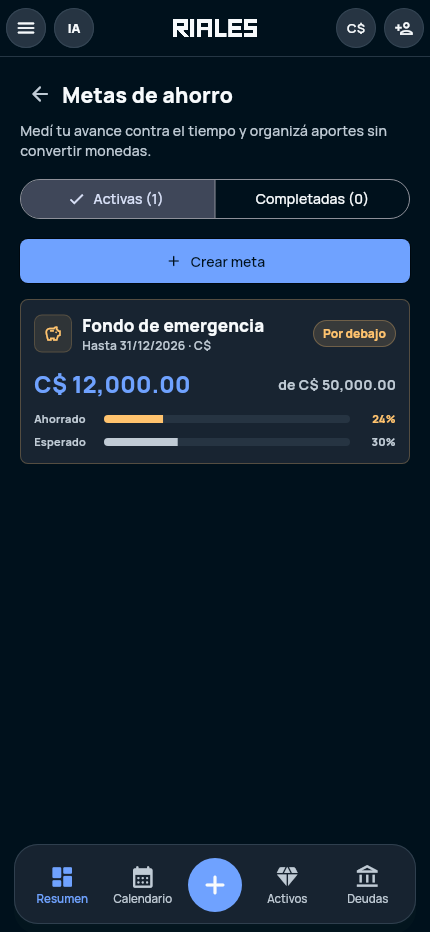
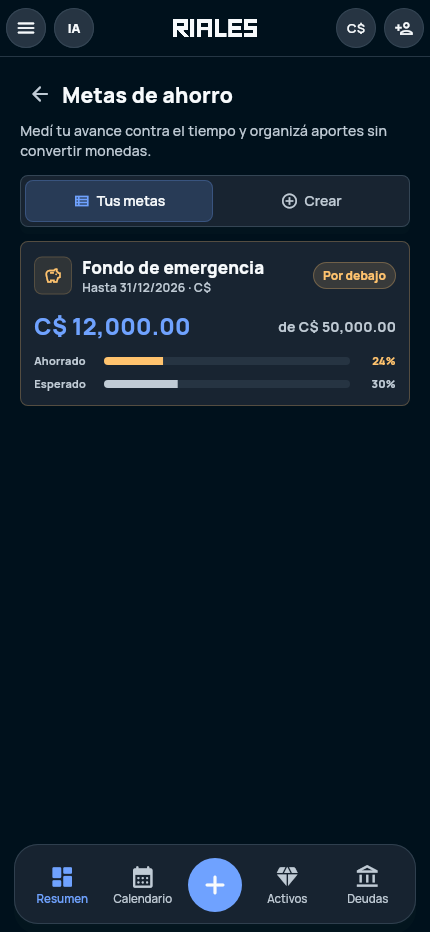
Deploy from 120c99c92a777c5bda232ce0f758e03437fb0d45

Changed region(s): [[0.0302, 0.1867, 0.9674, 0.4979]]

diff --git a/index.html b/index.html
@@ -9,7 +9,7 @@
       content="RIALES es una app de finanzas personales para Nicaragua: registrá ingresos y gastos, proyectá tu efectivo, organizá metas de ahorro, deudas y activos."
     />
     <link rel="canonical" href="https://riales.app/" />
-    <link rel="stylesheet" href="/assets/site.css?v=20260714b" />
+    <link rel="stylesheet" href="/assets/site.css?v=20260715a" />
     <script src="/assets/beta-config.js?v=20260627b" defer></script>
     <script src="/assets/beta.js?v=20260627b" defer></script>
     <script src="/assets/pricing.js?v=20260704a" defer></script>
@@ -71,11 +71,11 @@
             <small>Saldo disponible</small>
           </div>
           <div class="device-mockup hero-device secondary-device" aria-hidden="true">
-            <img class="real-screen" src="/assets/screen-registro.png?v=20260714b" alt="" width="430" height="932" />
+            <img class="real-screen" src="/assets/screen-registro.png?v=20260718a" alt="" width="430" height="932" />
           </div>
 
           <div class="device-mockup hero-device main-device">
-            <img class="real-screen" src="/assets/screen-resumen.png?v=20260714b" alt="Pantalla real del resumen de RIALES" width="430" height="932" />
+            <img class="real-screen" src="/assets/screen-resumen.png?v=20260718a" alt="Pantalla real del resumen de RIALES" width="430" height="932" />
           </div>
         </div>
 
@@ -110,7 +110,7 @@
               </p>
             </div>
             <div class="device-mockup">
-              <img class="real-screen" src="/assets/screen-resumen.png?v=20260714b" alt="Pantalla real del resumen de RIALES" width="430" height="932" />
+              <img class="real-screen" src="/assets/screen-resumen.png?v=20260718a" alt="Pantalla real del resumen de RIALES" width="430" height="932" />
             </div>
           </article>
 
@@ -122,7 +122,7 @@
               </p>
             </div>
             <div class="device-mockup">
-              <img class="real-screen" src="/assets/screen-proyeccion.png?v=20260714b" alt="Pantalla real de proyección de efectivo en RIALES" width="430" height="932" />
+              <img class="real-screen" src="/assets/screen-proyeccion.png?v=20260718a" alt="Pantalla real de proyección de efectivo en RIALES" width="430" height="932" />
             </div>
           </article>
 
@@ -134,7 +134,7 @@
               </p>
             </div>
             <div class="device-mockup">
-              <img class="real-screen" src="/assets/screen-metas-ahorro.png?v=20260714b" alt="Pantalla real de metas de ahorro en RIALES" width="430" height="932" />
+              <img class="real-screen" src="/assets/screen-metas-ahorro.png?v=20260718a" alt="Pantalla real de metas de ahorro en RIALES" width="430" height="932" />
             </div>
           </article>
 
@@ -146,7 +146,7 @@
               </p>
             </div>
             <div class="device-mockup">
-              <img class="real-screen" src="/assets/screen-detalle-mes.png?v=20260714b" alt="Pantalla real del detalle del mes y balance en RIALES" width="430" height="932" />
+              <img class="real-screen" src="/assets/screen-detalle-mes.png?v=20260718a" alt="Pantalla real del detalle del mes y balance en RIALES" width="430" height="932" />
             </div>
           </article>
 
@@ -158,7 +158,7 @@
               </p>
             </div>
             <div class="device-mockup">
-              <img class="real-screen" src="/assets/screen-registro.png?v=20260714b" alt="Pantalla real de registro rápido en RIALES" width="430" height="932" />
+              <img class="real-screen" src="/assets/screen-registro.png?v=20260718a" alt="Pantalla real de registro rápido en RIALES" width="430" height="932" />
             </div>
           </article>
 
@@ -170,7 +170,7 @@
               </p>
             </div>
             <div class="device-mockup">
-              <img class="real-screen" src="/assets/screen-calendario.png?v=20260714b" alt="Pantalla real del calendario financiero en RIALES" width="430" height="932" />
+              <img class="real-screen" src="/assets/screen-calendario.png?v=20260718a" alt="Pantalla real del calendario financiero en RIALES" width="430" height="932" />
             </div>
           </article>
 
@@ -182,7 +182,7 @@
               </p>
             </div>
             <div class="device-mockup">
-              <img class="real-screen" src="/assets/screen-indicadores.png?v=20260714b" alt="Pantalla real de indicadores financieros en RIALES" width="430" height="932" />
+              <img class="real-screen" src="/assets/screen-indicadores.png?v=20260718a" alt="Pantalla real de indicadores financieros en RIALES" width="430" height="932" />
             </div>
           </article>
 
@@ -194,7 +194,7 @@
               </p>
             </div>
             <div class="device-mockup">
-              <img class="real-screen" src="/assets/screen-activos.png?v=20260714b" alt="Pantalla real de activos en RIALES" width="430" height="932" />
+              <img class="real-screen" src="/assets/screen-activos.png?v=20260718a" alt="Pantalla real de activos en RIALES" width="430" height="932" />
             </div>
           </article>
         </div>
